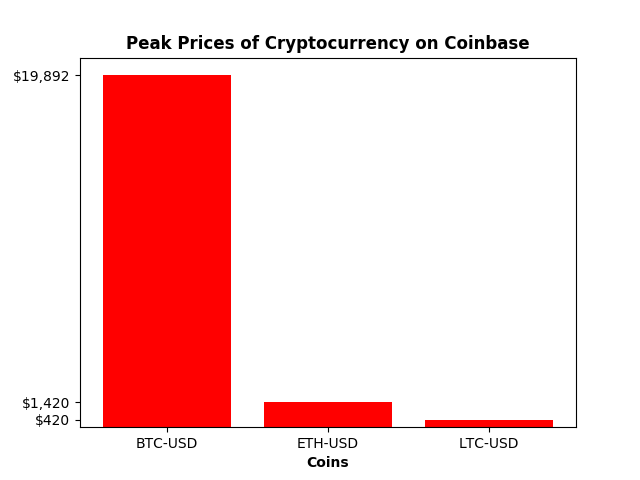
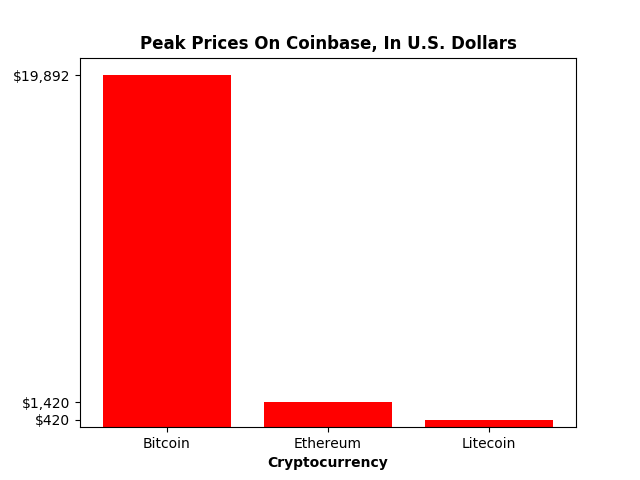
Update chart

diff --git a/analysis/peaks/peaks.py b/analysis/peaks/peaks.py
@@ -26,12 +26,15 @@ results = cursor.execute(query).fetchall()
 print(results)
 conn.close()
 
-# Format the y-axis values as prices
+# Format the y-axis values
 fmt = '${x:,.0f}'
 tick = pltick.StrMethodFormatter(fmt)
 
+# Format the x-axis values
+x_map = {"BTC-USD":"Bitcoin", "ETH-USD":"Ethereum", "LTC-USD":"Litecoin"}
+
 # Use the query results to structure the data
-x_labels = [x[0] for x in results]
+x_labels = [x_map.get(x[0]) for x in results]
 raw_x_val = [float(x[3]) for x in results]
 x_val = range(0,len(raw_x_val))
 y_val = raw_x_val
@@ -39,8 +42,8 @@ y_val = raw_x_val
 # Plot the data
 plt.axes().yaxis.set_major_formatter(pltick.StrMethodFormatter(fmt))
 plt.bar(x_val, y_val, color=['red'])
-plt.title('Peak Prices of Cryptocurrency on Coinbase', fontweight='bold')
-plt.xlabel ('Coins', fontweight='bold')
+plt.title('Peak Prices On Coinbase, In U.S. Dollars', fontweight='bold')
+plt.xlabel('Cryptocurrency', fontweight='bold')
 plt.xticks(x_val, x_labels)
 plt.yticks(y_val)
 plt.savefig('peaks.png')
